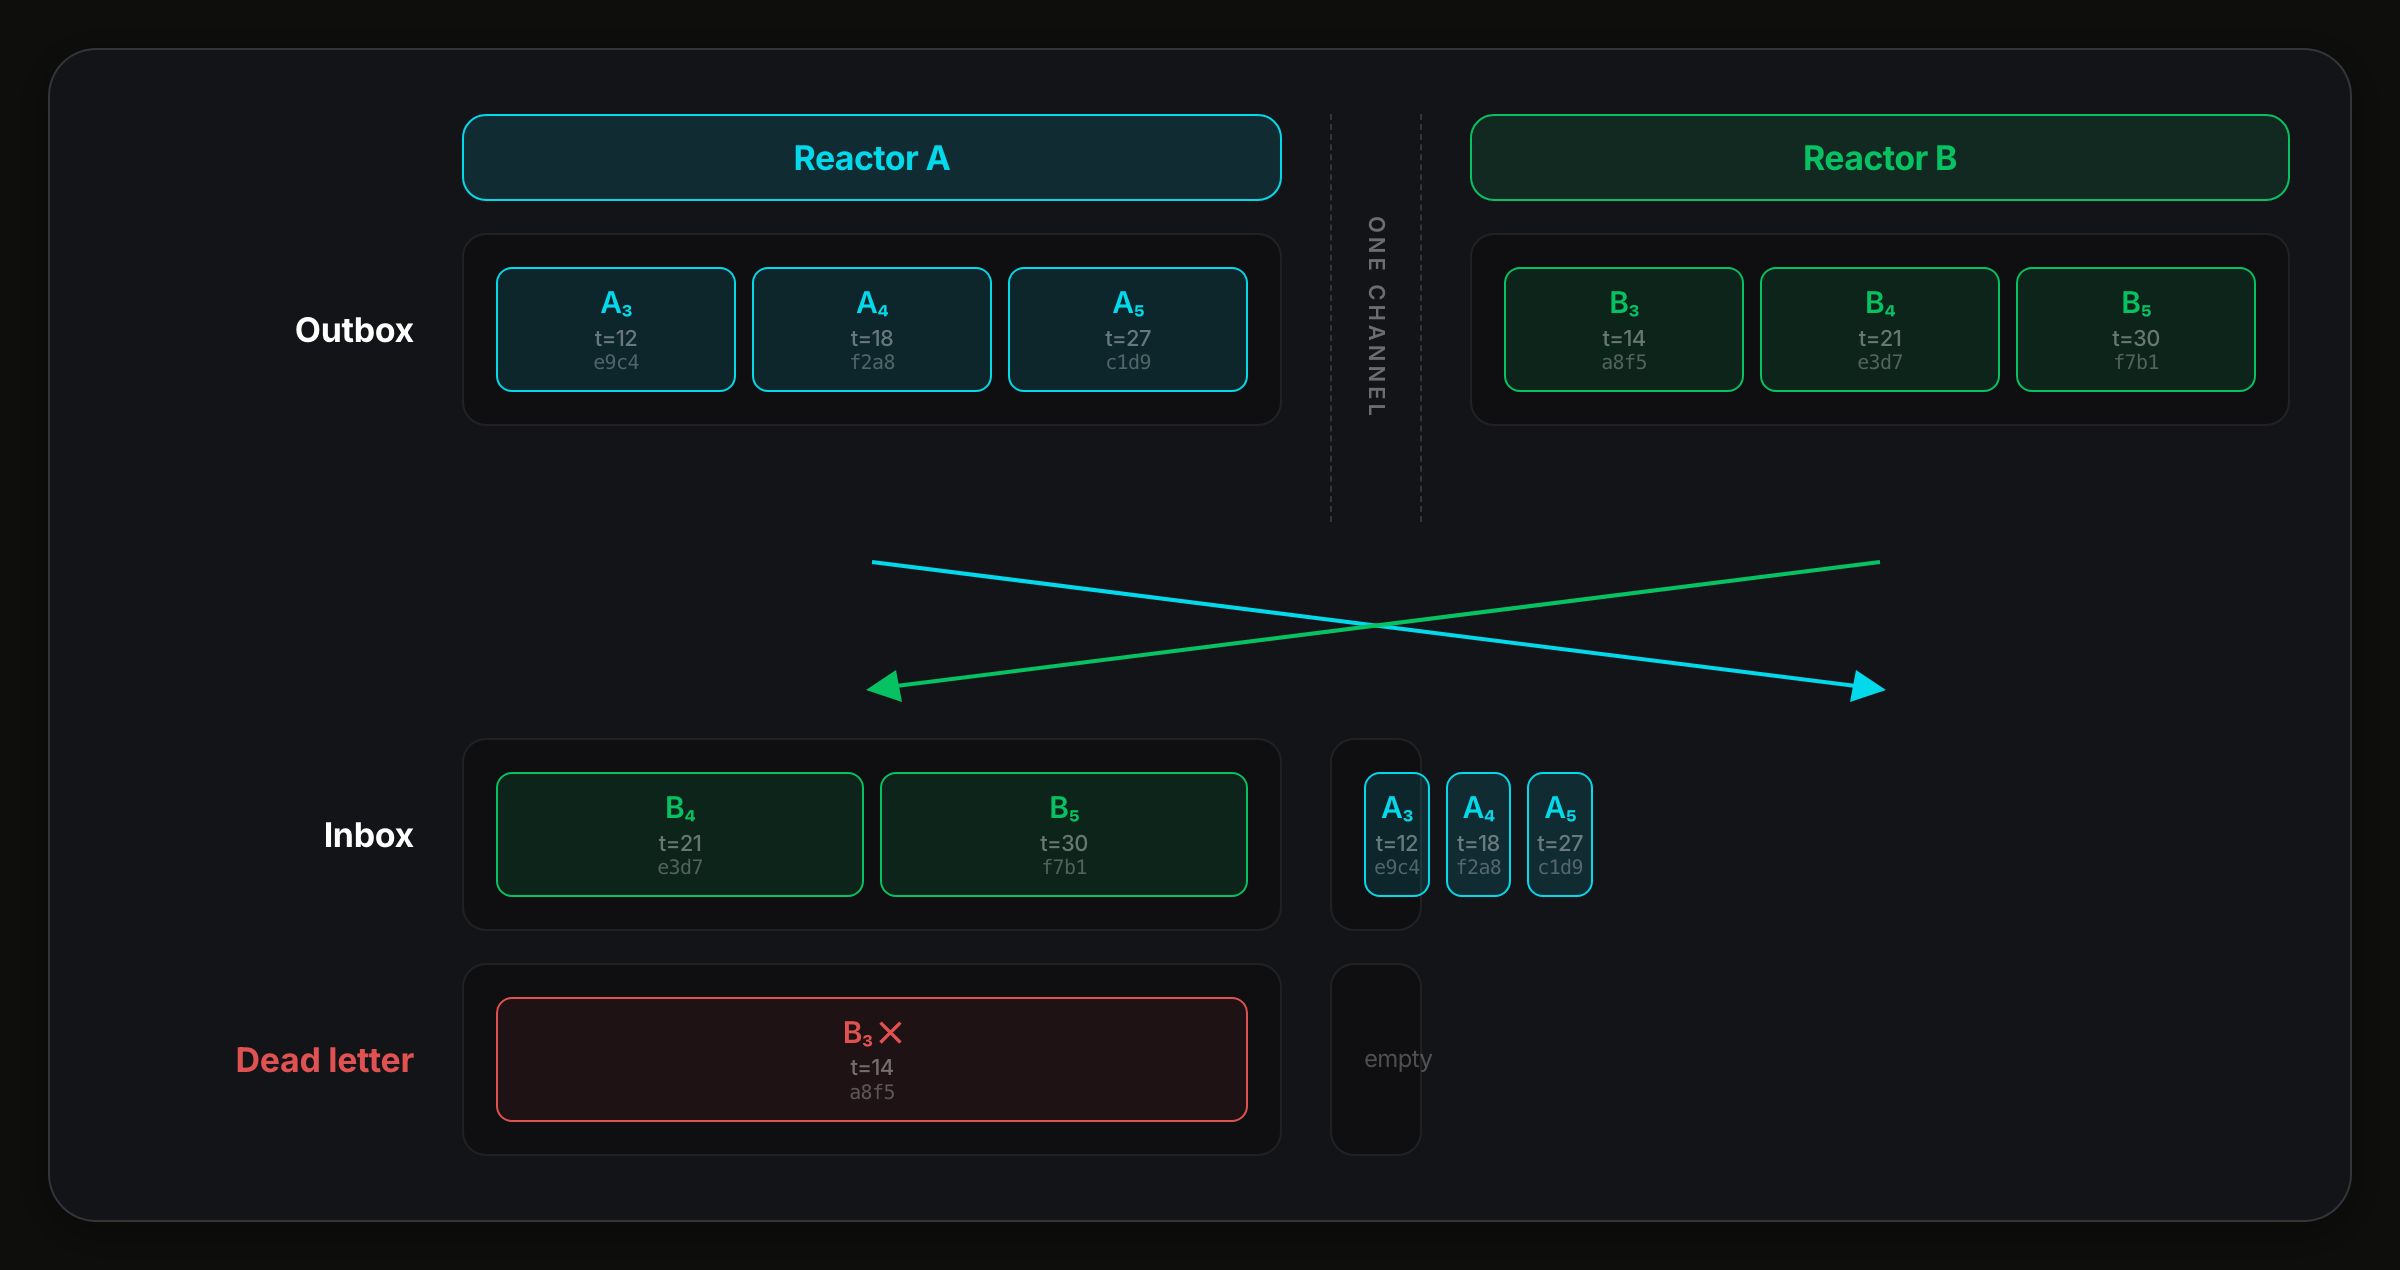
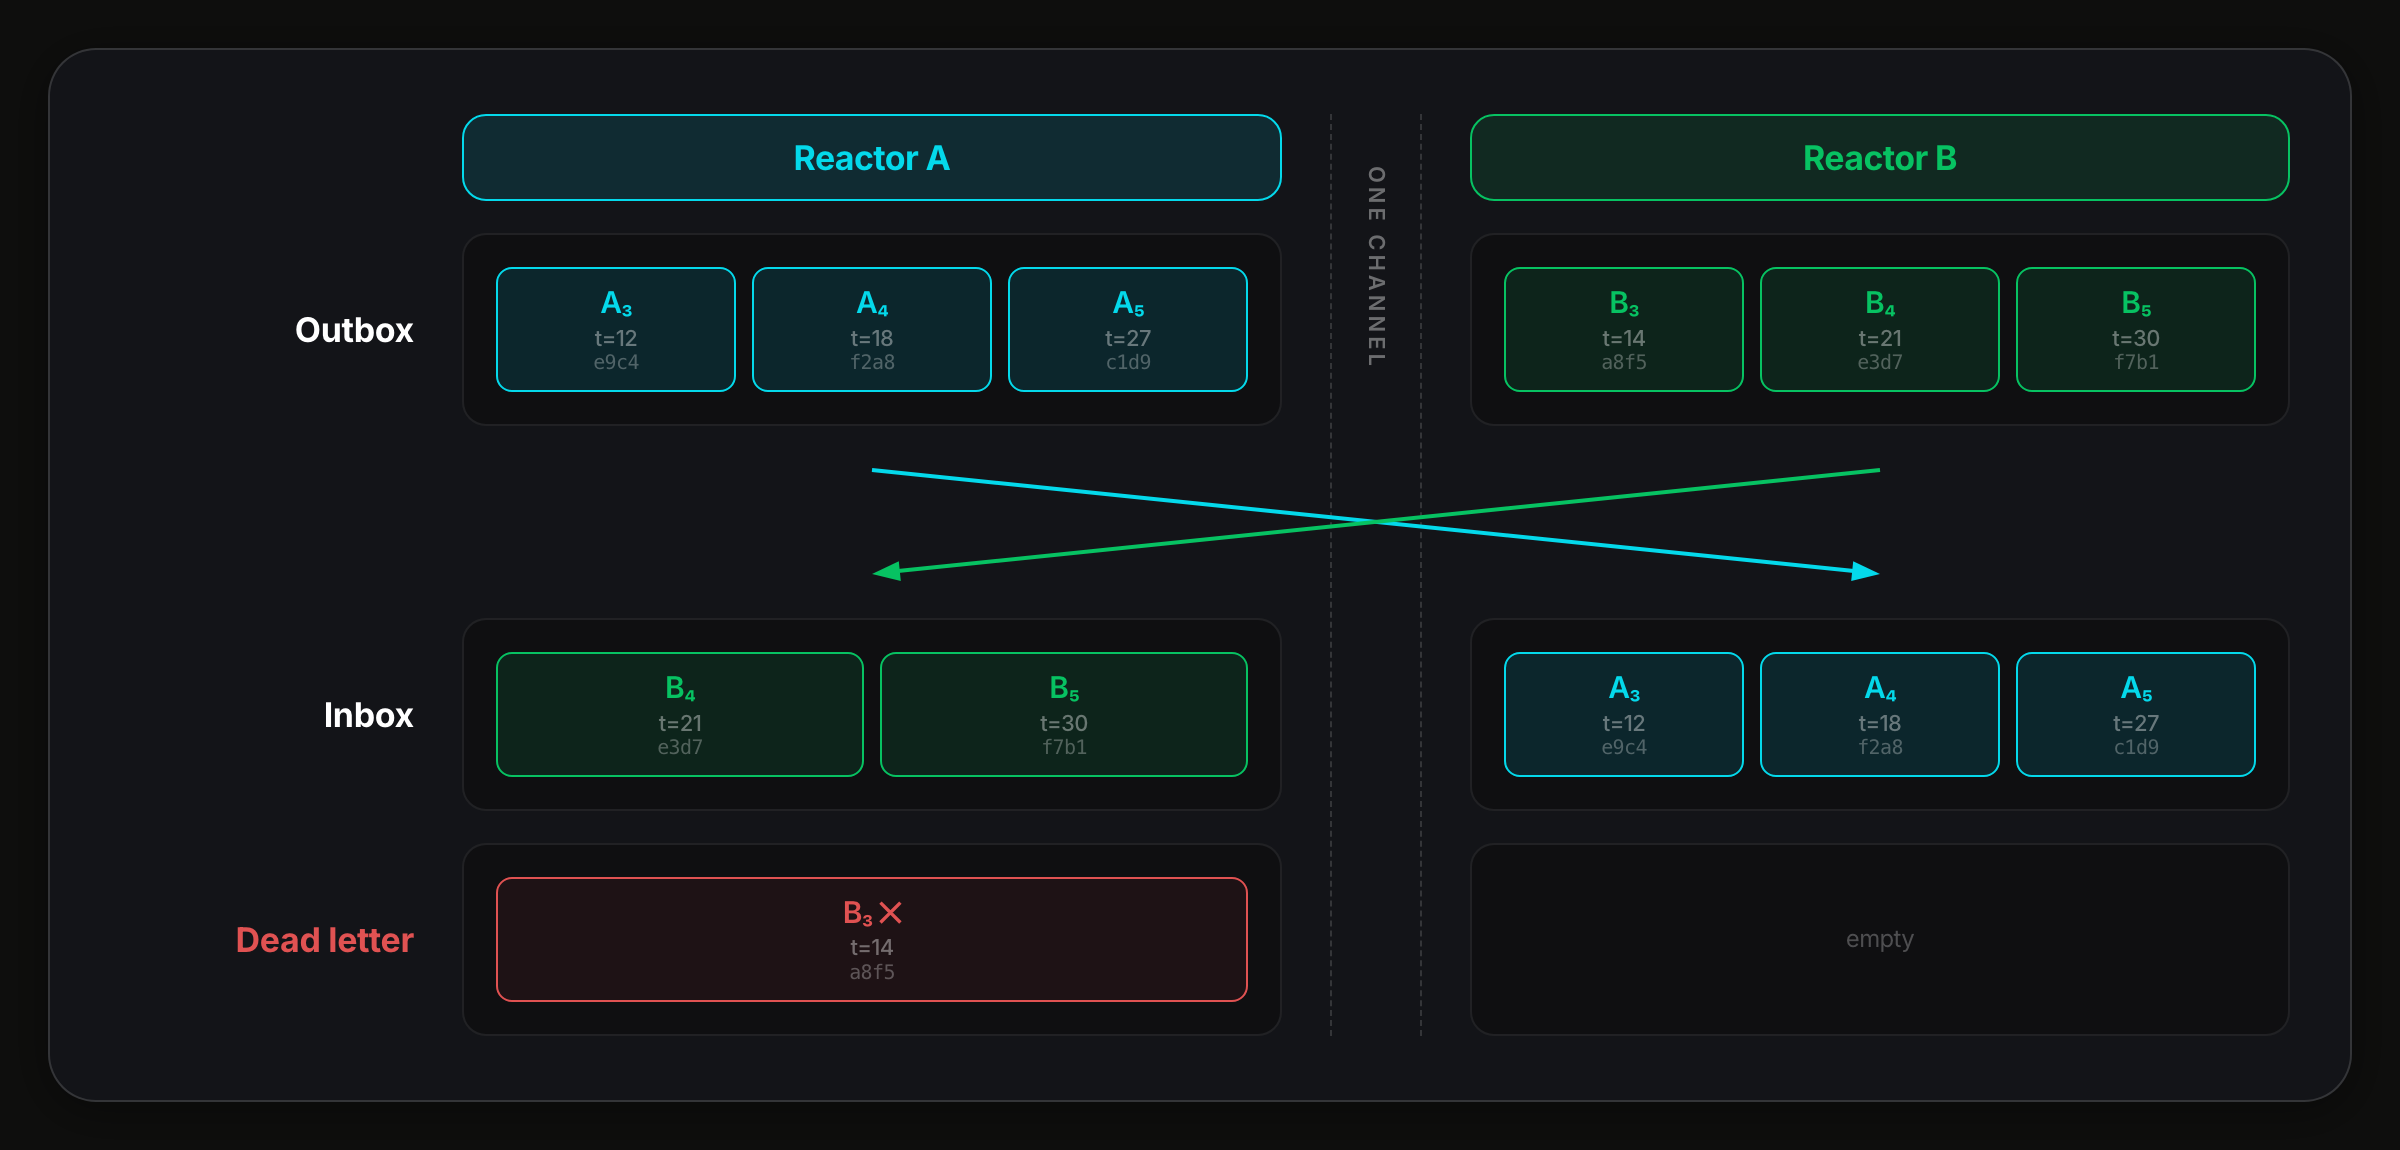
rebuild: fixed grid placement on the channels slide

diff --git a/diagrams/pages/channel-mailbox-breakdown.html b/diagrams/pages/channel-mailbox-breakdown.html
@@ -32,6 +32,16 @@
       align-self: center;
       text-align: right;
     }
+    /* Every item is placed explicitly. Mixing auto-placed items with ones that have a
+       definite column (.kind, .channel) walks the auto cursor into the channel column,
+       which is what put Reactor B's mailboxes inside the divider. */
+    .r-head   { grid-row: 1; }
+    .r-outbox { grid-row: 2; }
+    .r-cross  { grid-row: 3; }
+    .r-inbox  { grid-row: 4; }
+    .r-dead   { grid-row: 5; }
+    .c-a      { grid-column: 2; }
+    .c-b      { grid-column: 4; }
     .kind-name {
       font-size: 17px;
       font-weight: var(--font-weight-bold);
@@ -59,8 +69,9 @@
       justify-self: center;
       width: 100%;
       display: flex;
-      align-items: center;
+      align-items: flex-start;   /* keep the label clear of the crossing arrows */
       justify-content: center;
+      padding-top: 26px;
       border-left: 1px dashed var(--border-glass);
       border-right: 1px dashed var(--border-glass);
     }
@@ -81,7 +92,9 @@
        1:1, and the crossing lands at x=457, the channel's centre. */
     .cross {
       grid-column: 2 / 5;
+      grid-row: 3;
       justify-self: center;
+      align-self: center;   /* the default stretch blows the row height out */
       display: block;
       overflow: visible;
     }
@@ -146,22 +159,22 @@
 
           <!-- row 1: the two Reactors, and the channel between them -->
           <div></div>
-          <div class="side-head a">Reactor A</div>
-          <div class="channel"><span>one channel</span></div>
-          <div class="side-head b">Reactor B</div>
+          <div class="side-head a r-head c-a">Reactor A</div>
+          <div class="channel r-head"><span>one channel</span></div>
+          <div class="side-head b r-head c-b">Reactor B</div>
 
           <!-- row 2 -->
-          <div class="kind">
+          <div class="kind r-outbox">
             <div class="kind-name">Outbox</div>
           </div>
-          <div class="mb">
+          <div class="mb r-outbox c-a">
             <div class="ops">
               <div class="op a">A&#8323;<span class="ts">t=12</span><span class="hash">e9c4</span></div>
               <div class="op a">A&#8324;<span class="ts">t=18</span><span class="hash">f2a8</span></div>
               <div class="op a">A&#8325;<span class="ts">t=27</span><span class="hash">c1d9</span></div>
             </div>
           </div>
-          <div class="mb">
+          <div class="mb r-outbox c-b">
             <div class="ops">
               <div class="op b">B&#8323;<span class="ts">t=14</span><span class="hash">a8f5</span></div>
               <div class="op b">B&#8324;<span class="ts">t=21</span><span class="hash">e3d7</span></div>
@@ -170,24 +183,24 @@
           </div>
 
           <!-- each outbox delivers into the other side's inbox -->
-          <svg class="cross" width="914" height="76" viewBox="0 0 914 76" aria-hidden="true">
-            <line class="a-line" x1="205" y1="4" x2="697" y2="66" />
-            <polygon class="a-head" points="697,58 712,68 694,74" />
-            <line class="b-line" x1="709" y1="4" x2="217" y2="66" />
-            <polygon class="b-head" points="217,58 202,68 220,74" />
+          <svg class="cross" width="914" height="64" viewBox="0 0 914 64" aria-hidden="true">
+            <line class="a-line" x1="205" y1="6" x2="696" y2="56.5" />
+            <polygon class="a-head" points="709,58 694.6,61.5 695.6,51.6" />
+            <line class="b-line" x1="709" y1="6" x2="218" y2="56.5" />
+            <polygon class="b-head" points="205,58 218.4,51.6 219.4,61.5" />
           </svg>
 
           <!-- row: each side holds what the other sent -->
-          <div class="kind">
+          <div class="kind r-inbox">
             <div class="kind-name">Inbox</div>
           </div>
-          <div class="mb">
+          <div class="mb r-inbox c-a">
             <div class="ops">
               <div class="op b">B&#8324;<span class="ts">t=21</span><span class="hash">e3d7</span></div>
               <div class="op b">B&#8325;<span class="ts">t=30</span><span class="hash">f7b1</span></div>
             </div>
           </div>
-          <div class="mb">
+          <div class="mb r-inbox c-b">
             <div class="ops">
               <div class="op a">A&#8323;<span class="ts">t=12</span><span class="hash">e9c4</span></div>
               <div class="op a">A&#8324;<span class="ts">t=18</span><span class="hash">f2a8</span></div>
@@ -196,15 +209,15 @@
           </div>
 
           <!-- row 4: B3 could not be applied, so it never reached A's inbox -->
-          <div class="kind dead">
+          <div class="kind dead r-dead">
             <div class="kind-name">Dead letter</div>
           </div>
-          <div class="mb">
+          <div class="mb r-dead c-a">
             <div class="ops">
               <div class="op failed">B&#8323; &#10005;<span class="ts">t=14</span><span class="hash">a8f5</span></div>
             </div>
           </div>
-          <div class="mb">
+          <div class="mb r-dead c-b">
             <div class="empty">empty</div>
           </div>
 
